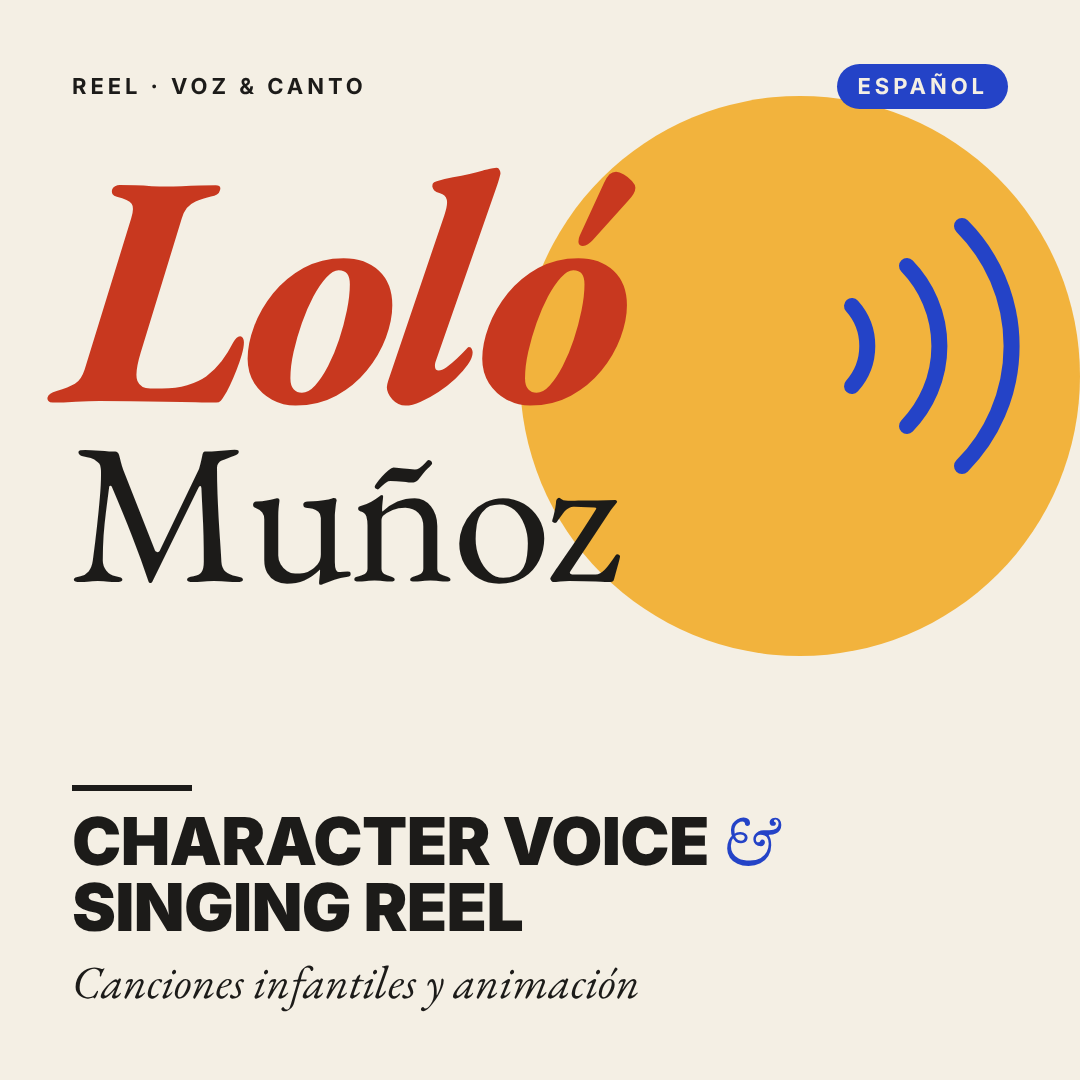
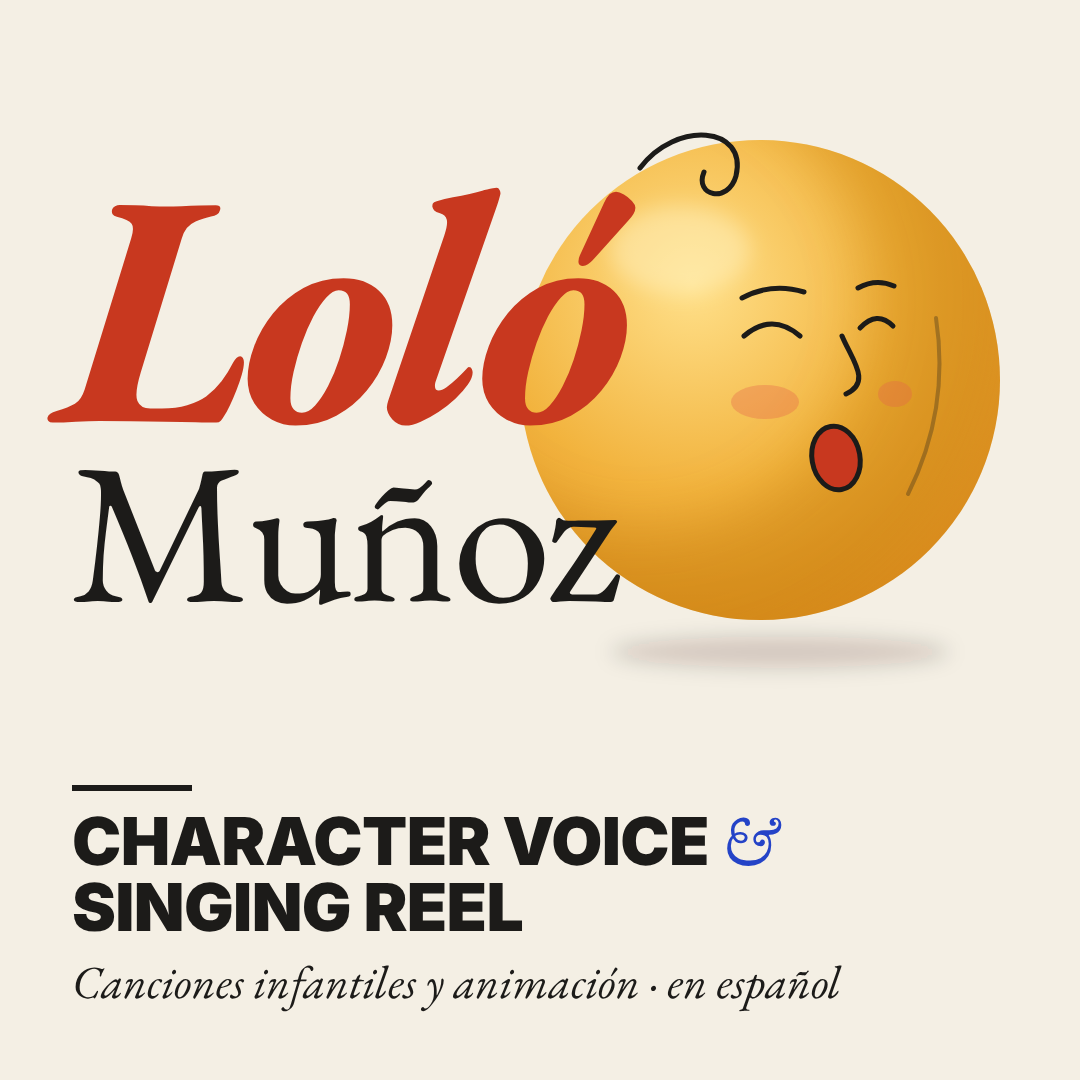
Thumbnail: simplify, comic-style singing face with volume
Claude-Session: https://claude.ai/code/session_015YwUbfaQhwx3pwkZausMrY

diff --git a/videos/lolo-munoz-miniatura/index.html b/videos/lolo-munoz-miniatura/index.html
@@ -9,15 +9,8 @@
       html, body { margin: 0; width: 1080px; height: 1080px; overflow: hidden; background: #F4EFE4; }
       #root { width: 100%; height: 100%; position: relative; background: #F4EFE4; color: #1C1B19; font-family: "Inter", sans-serif; overflow: hidden; }
 
-      /* sound: a warm disc behind the name, arcs radiating from it */
-      #disc { position: absolute; left: 520px; top: 96px; width: 560px; height: 560px; border-radius: 50%; background: #F2B33D; }
-      #waves { position: absolute; left: 812px; top: 196px; width: 220px; height: 300px; }
-
-      .tag { font-size: 22px; font-weight: 700; letter-spacing: 0.18em; text-transform: uppercase; }
-      #top { position: absolute; left: 72px; right: 72px; top: 64px; display: flex; justify-content: space-between; align-items: center; }
-      #pill { color: #F4EFE4; background: #2443C7; padding: 10px 20px 9px; border-radius: 40px; }
-
-      #name { position: absolute; left: 60px; top: 150px; display: flex; flex-direction: column; }
+      #face { position: absolute; inset: 0; width: 1080px; height: 1080px; }
+      #name { position: absolute; left: 60px; top: 170px; display: flex; flex-direction: column; }
       #first { font-family: "EB Garamond", serif; font-style: italic; font-weight: 700; font-size: 330px; line-height: 0.82; color: #C8381F; letter-spacing: -0.02em; }
       #last { font-family: "EB Garamond", serif; font-weight: 400; font-size: 200px; line-height: 0.9; letter-spacing: -0.015em; margin-left: 10px; }
 
@@ -38,19 +31,37 @@
       data-height="1080"
     >
       <div id="art" class="clip" data-start="0" data-duration="1" data-track-index="0" style="position: absolute; inset: 0">
-        <div id="disc"></div>
-        <svg id="waves" viewBox="0 0 220 300" aria-hidden="true">
-          <g fill="none" stroke="#2443C7" stroke-width="16" stroke-linecap="round">
-            <path d="M 40 110 A 60 60 0 0 1 40 190" />
-            <path d="M 95 70 A 115 115 0 0 1 95 230" />
-            <path d="M 150 30 A 170 170 0 0 1 150 270" />
+        <svg id="face" viewBox="0 0 1080 1080" aria-hidden="true">
+          <defs>
+            <radialGradient id="skin" cx="0.36" cy="0.3" r="0.78">
+              <stop offset="0" stop-color="#FFE08A" />
+              <stop offset="0.55" stop-color="#F2B33D" />
+              <stop offset="1" stop-color="#D98A1C" />
+            </radialGradient>
+            <clipPath id="head"><circle cx="760" cy="380" r="240" /></clipPath>
+            <filter id="soft" x="-20%" y="-20%" width="140%" height="140%"><feGaussianBlur stdDeviation="28" /></filter>
+            <filter id="softer" x="-50%" y="-200%" width="200%" height="500%"><feGaussianBlur stdDeviation="10" /></filter>
+          </defs>
+          <ellipse cx="780" cy="652" rx="170" ry="16" fill="#1C1B19" fill-opacity="0.16" filter="url(#softer)" />
+          <circle cx="760" cy="380" r="240" fill="url(#skin)" />
+          <!-- core shadow: the head turns right, so the far side falls into shade -->
+          <g clip-path="url(#head)">
+            <circle cx="640" cy="300" r="300" fill="none" stroke="#B9700F" stroke-opacity="0.3" stroke-width="140" filter="url(#soft)" />
+            <ellipse cx="680" cy="250" rx="70" ry="44" fill="#FFF3C8" fill-opacity="0.45" filter="url(#softer)" />
           </g>
+          <g fill="none" stroke="#1C1B19" stroke-width="5" stroke-linecap="round" stroke-linejoin="round">
+            <path d="M 640 168 C 676 120 748 126 736 176 C 728 204 694 196 704 172" />
+            <path d="M 742 298 Q 772 282 804 292" />
+            <path d="M 858 288 Q 876 278 894 286" />
+            <path d="M 744 336 Q 772 312 800 336" />
+            <path d="M 860 328 Q 877 310 893 326" />
+            <path d="M 842 336 C 852 360 872 382 846 394" />
+            <path d="M 936 318 Q 950 410 908 494" stroke-opacity="0.3" stroke-width="4" />
+          </g>
+          <ellipse cx="765" cy="402" rx="34" ry="17" fill="#E5644A" fill-opacity="0.35" />
+          <ellipse cx="895" cy="394" rx="17" ry="13" fill="#E5644A" fill-opacity="0.35" />
+          <ellipse cx="836" cy="458" rx="24" ry="32" transform="rotate(-10 836 458)" fill="#C8381F" stroke="#1C1B19" stroke-width="5" />
         </svg>
-
-        <div id="top">
-          <div class="tag">Reel · Voz &amp; Canto</div>
-          <div class="tag" id="pill">Español</div>
-        </div>
 
         <div id="name">
           <div id="first">Loló</div>
@@ -60,7 +71,7 @@
         <div id="bottom">
           <div id="rule"></div>
           <div id="reel">Character Voice <span class="amp">&amp;</span> Singing Reel</div>
-          <div id="genre">Canciones infantiles y animación</div>
+          <div id="genre">Canciones infantiles y animación · en español</div>
         </div>
       </div>
     </div>
